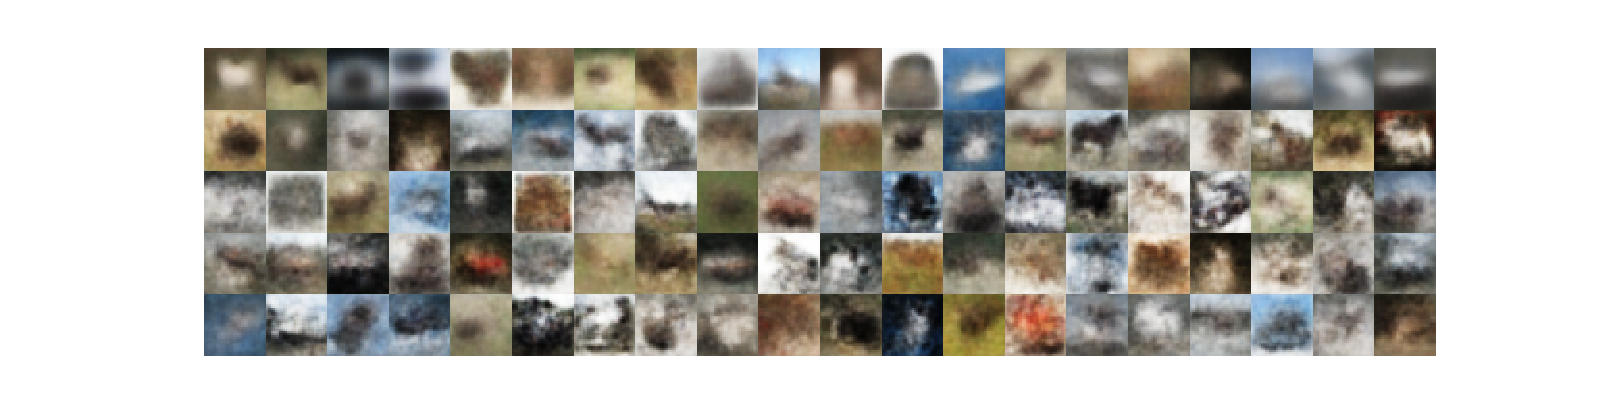
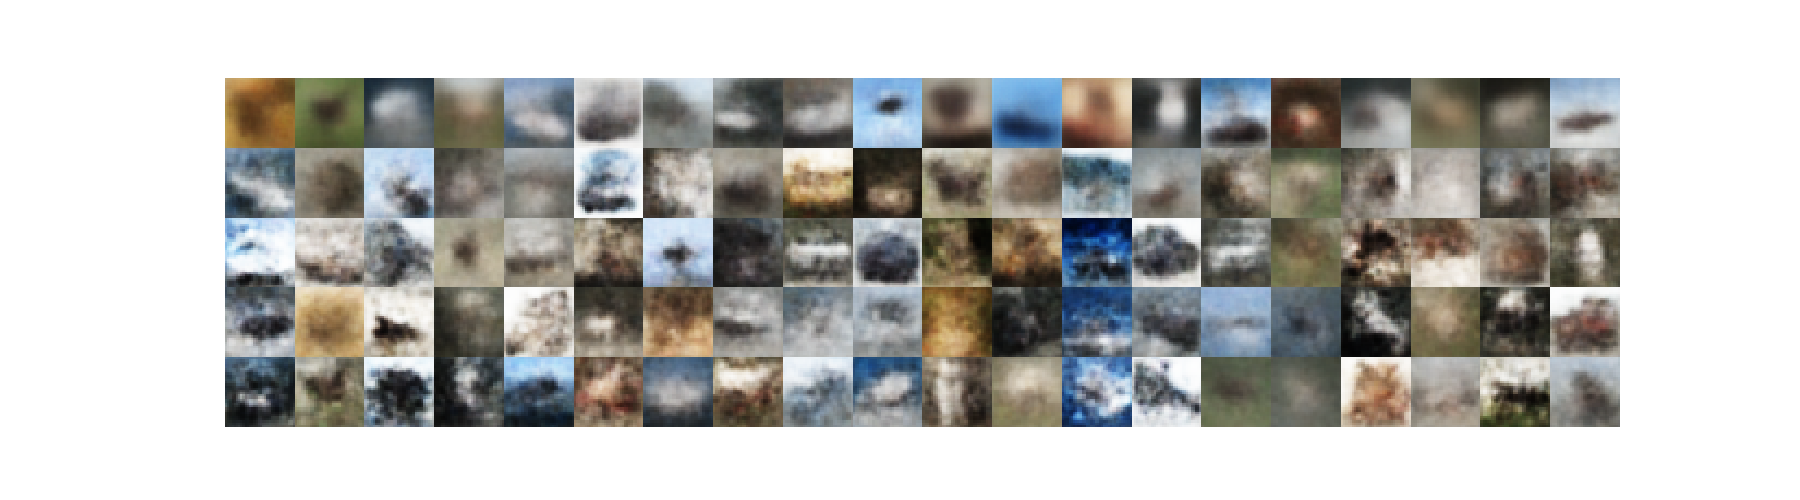
1839

diff --git a/assign4/read.py b/assign4/read.py
@@ -172,7 +172,7 @@ if __name__ == "__main__":
     dataset_name = "CIFAR"
 
     num_hidden = 0
-    latent_size = 50
+    latent_size = 10
     hidden_layer_size = 256
 
     # ReadAllSamples(model_name, dataset_name, num_hidden, latent_size, hidden_layer_size)
